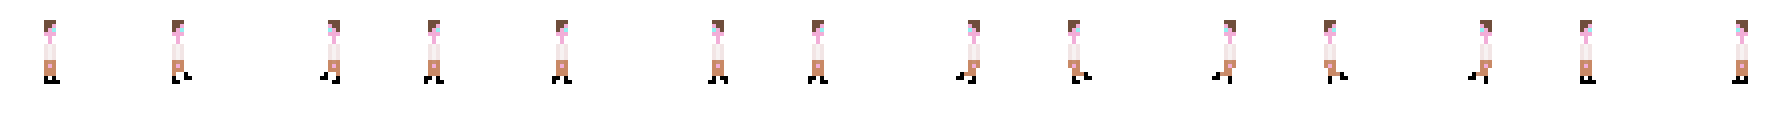
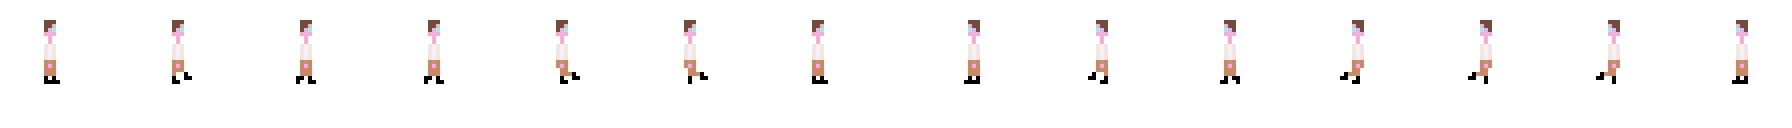
He now badly walks however he doesn't change to face the opposite direction when going backwards, I've got the spritesheet into order now though, so that should work better.

diff --git a/Js/main.js b/Js/main.js
@@ -23,57 +23,56 @@ function preload ()
 {
   this.load.image('sky', 'assets/sky.png');
   this.load.image('ground', 'assets/platform.png');
-  this.load.image('star', 'assets/star.png');
+this.load.image('star', 'assets/star.png');
   this.load.image('bomb', 'assets/bomb.png');
   //this.load.spritesheet('dude',
   //'assets/dude.png',
-//  { frameWidth: 32, frameHeight: 48 }
+  //{ frameWidth: 32, frameHeight: 48 }
 //);
 //this.load.spritesheet('testchar',
 //'assets/spritetest1.png',
 //{ frameWidth: 26, frameHeight: 57 }
 //);
-//}
 this.load.spritesheet('dude2',
 'assets/dude2.png',
-{frameWidth: 47, frameHeight:72 }
+{frameWidth: 47, frameHeight:75 }
 );
-}
-var platforms;
 
+var platforms;
+}
 function create ()
 {
   this.add.image(400, 300, 'sky');
   platforms = this.physics.add.staticGroup();
   platforms.create(400, 300, 'ground').setScale(2).refreshBody();
-//  player = this.physics.add.sprite(50, 50, 'dude');
-player = this.physics.add.sprite(47,72,'dude2');
+  //player = this.physics.add.sprite(50, 50, 'dude');
+player = this.physics.add.sprite(47,75,'dude2');
   player.setBounce(0.2);
   player.setCollideWorldBounds(true);
 
-//  this.physics.add.collider(player, platforms);
-//  this.anims.create({
-  //  key: 'left',
-  //  frames: this.anims.generateFrameNumbers('dude', { start: 0, end: 3 }),
-  //  frameRate: 10,
-  //  repeat: -1
-  //});
   this.physics.add.collider(player, platforms);
   this.anims.create({
     key: 'left',
-    frames: this.anims.generateFrameNumbers('dude2', { start: 1, end: 13 }),
+    frames: this.anims.generateFrameNumbers('dude2', { start: 1, end: 7 }),
     frameRate: 10,
     repeat: -1
   });
+  //this.physics.add.collider(player, platforms);
+  //this.anims.create({
+    //key: 'left',
+    //frames: this.anims.generateFrameNumbers('dude2', { start: 1, end: 13 }),
+    //frameRate: 10,
+    //repeat: -1
+  //});
   this.anims.create({
     key: 'turn',
-    frames: [ { key: 'testchar', frame: 14 } ],
-    frameRate: 20
+    frames: [ { key: 'dude2', frame: 14 } ],
+    frameRate: 10
   });
 
   this.anims.create({
     key: 'right',
-    frames: this.anims.generateFrameNumbers('testchar', { start: 2, end: 14 }),
+    frames: this.anims.generateFrameNumbers('dude2', { start: 7, end: 14 }),
     frameRate: 10,
     repeat: -1
   });
